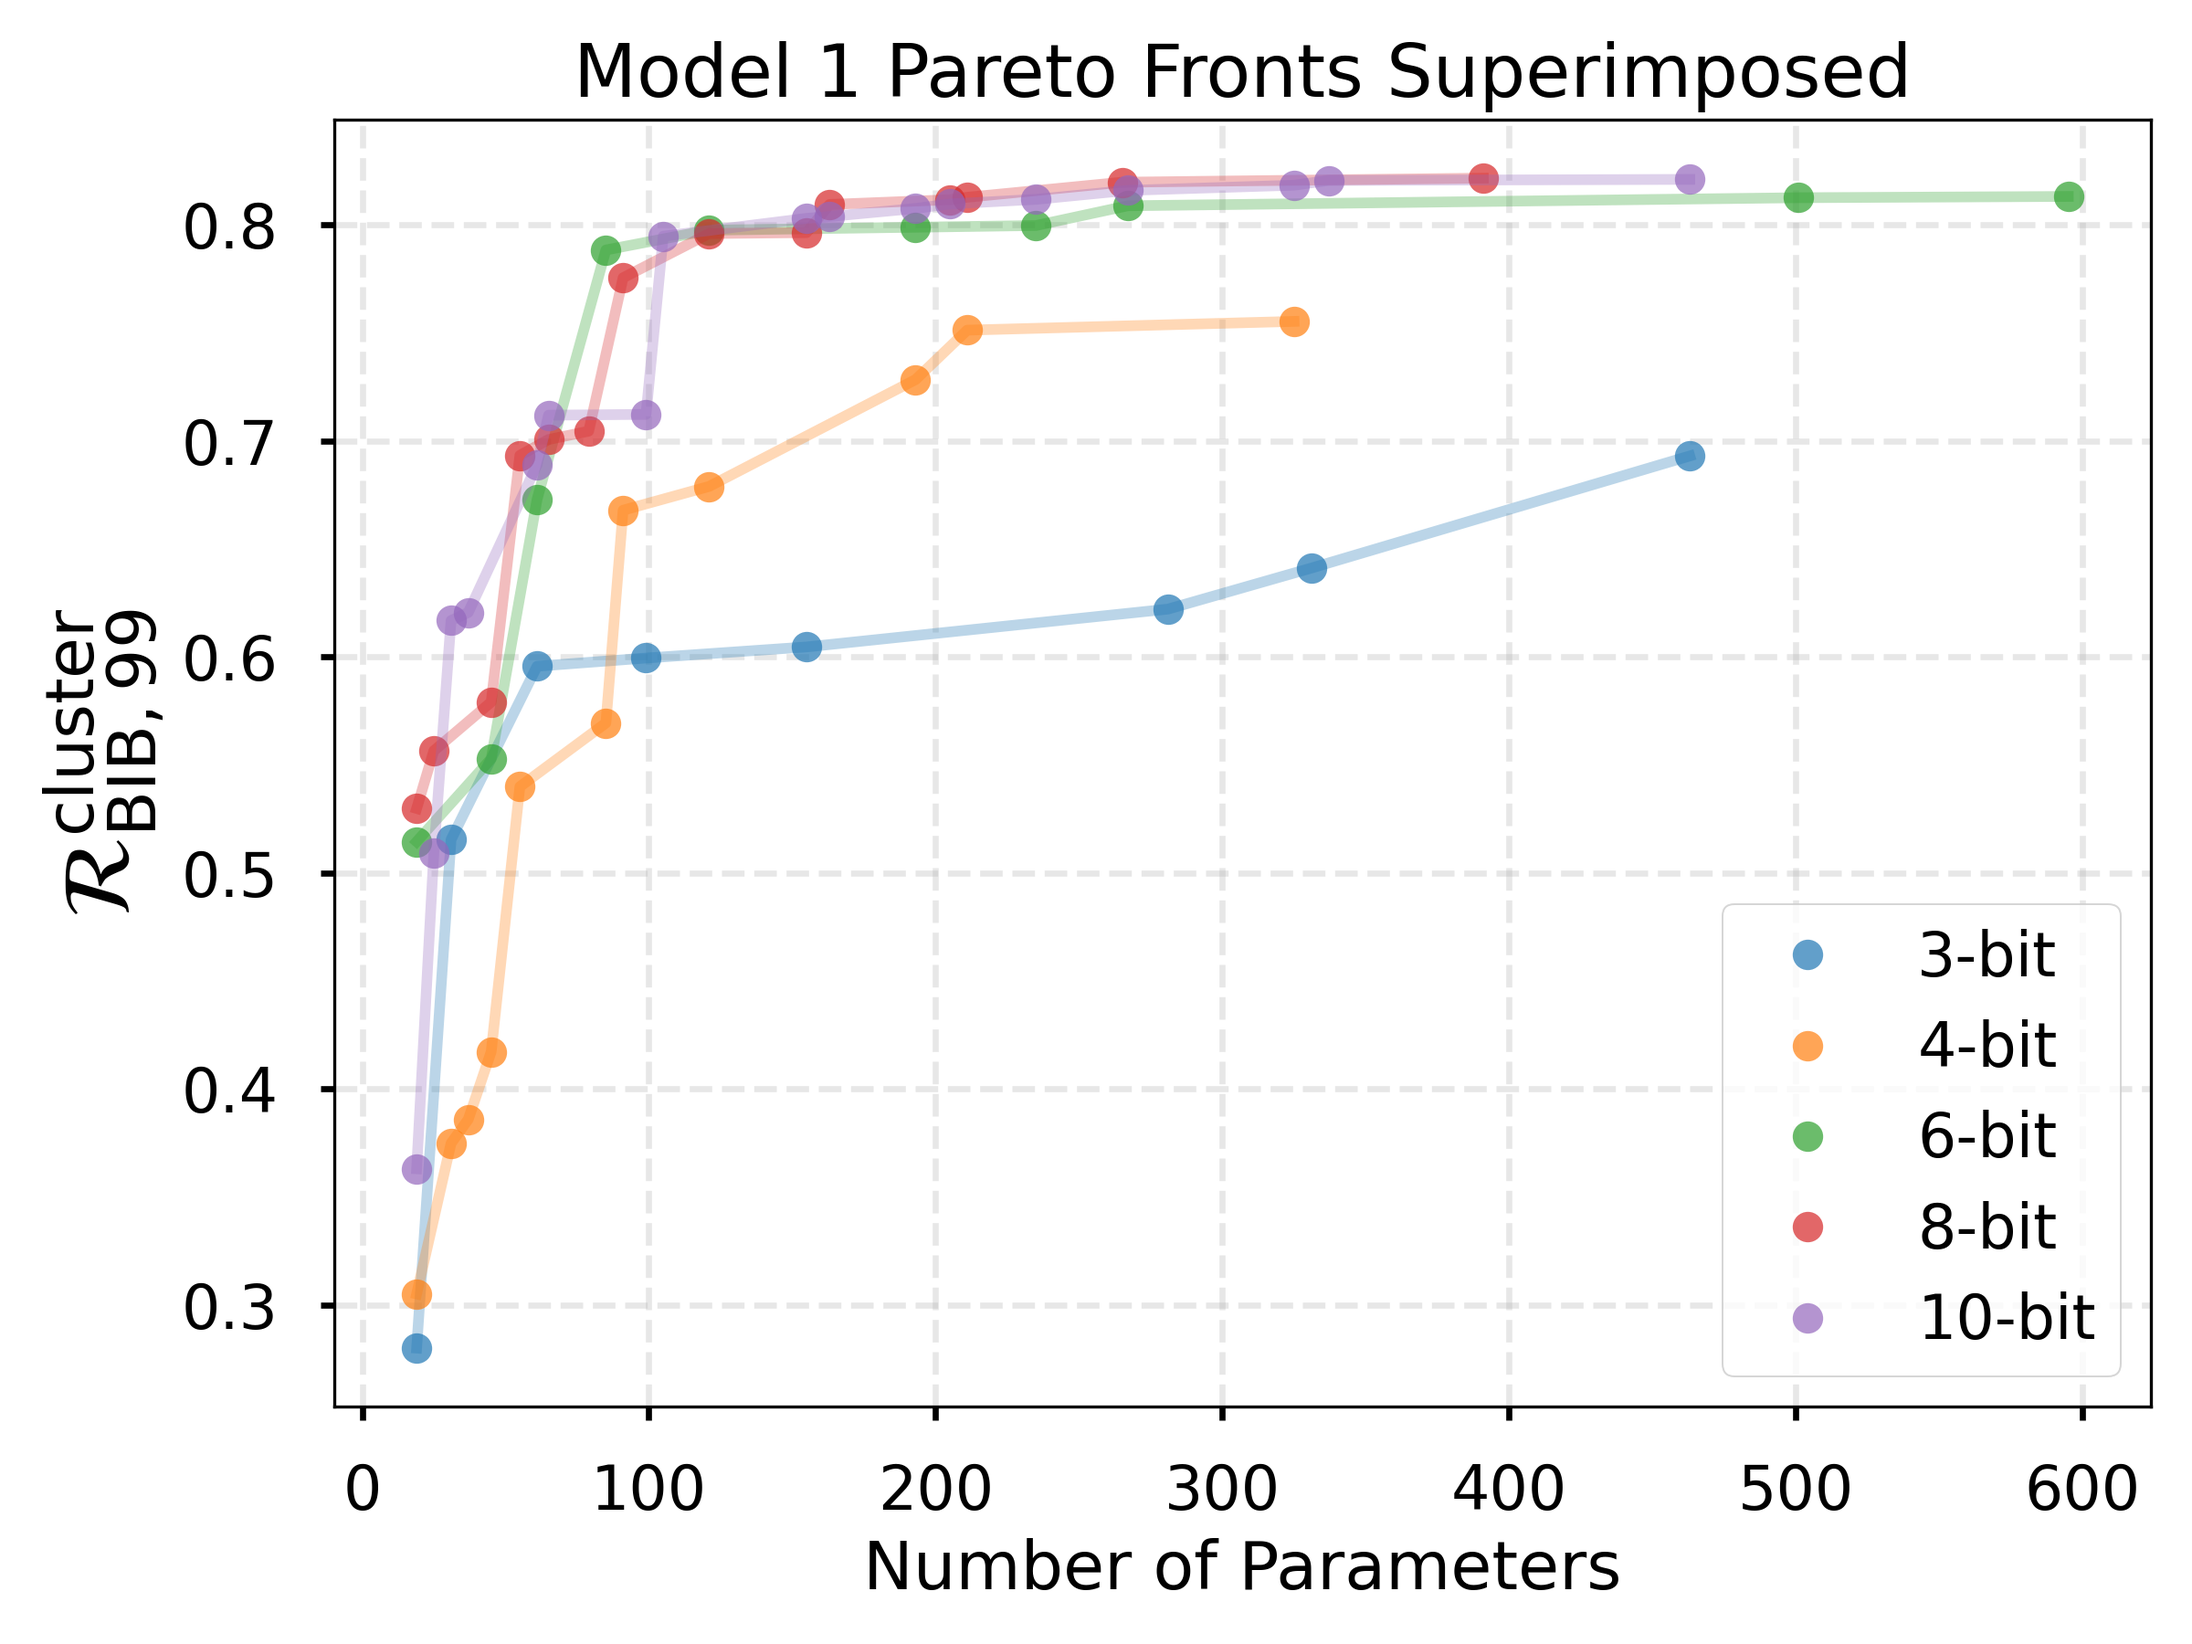
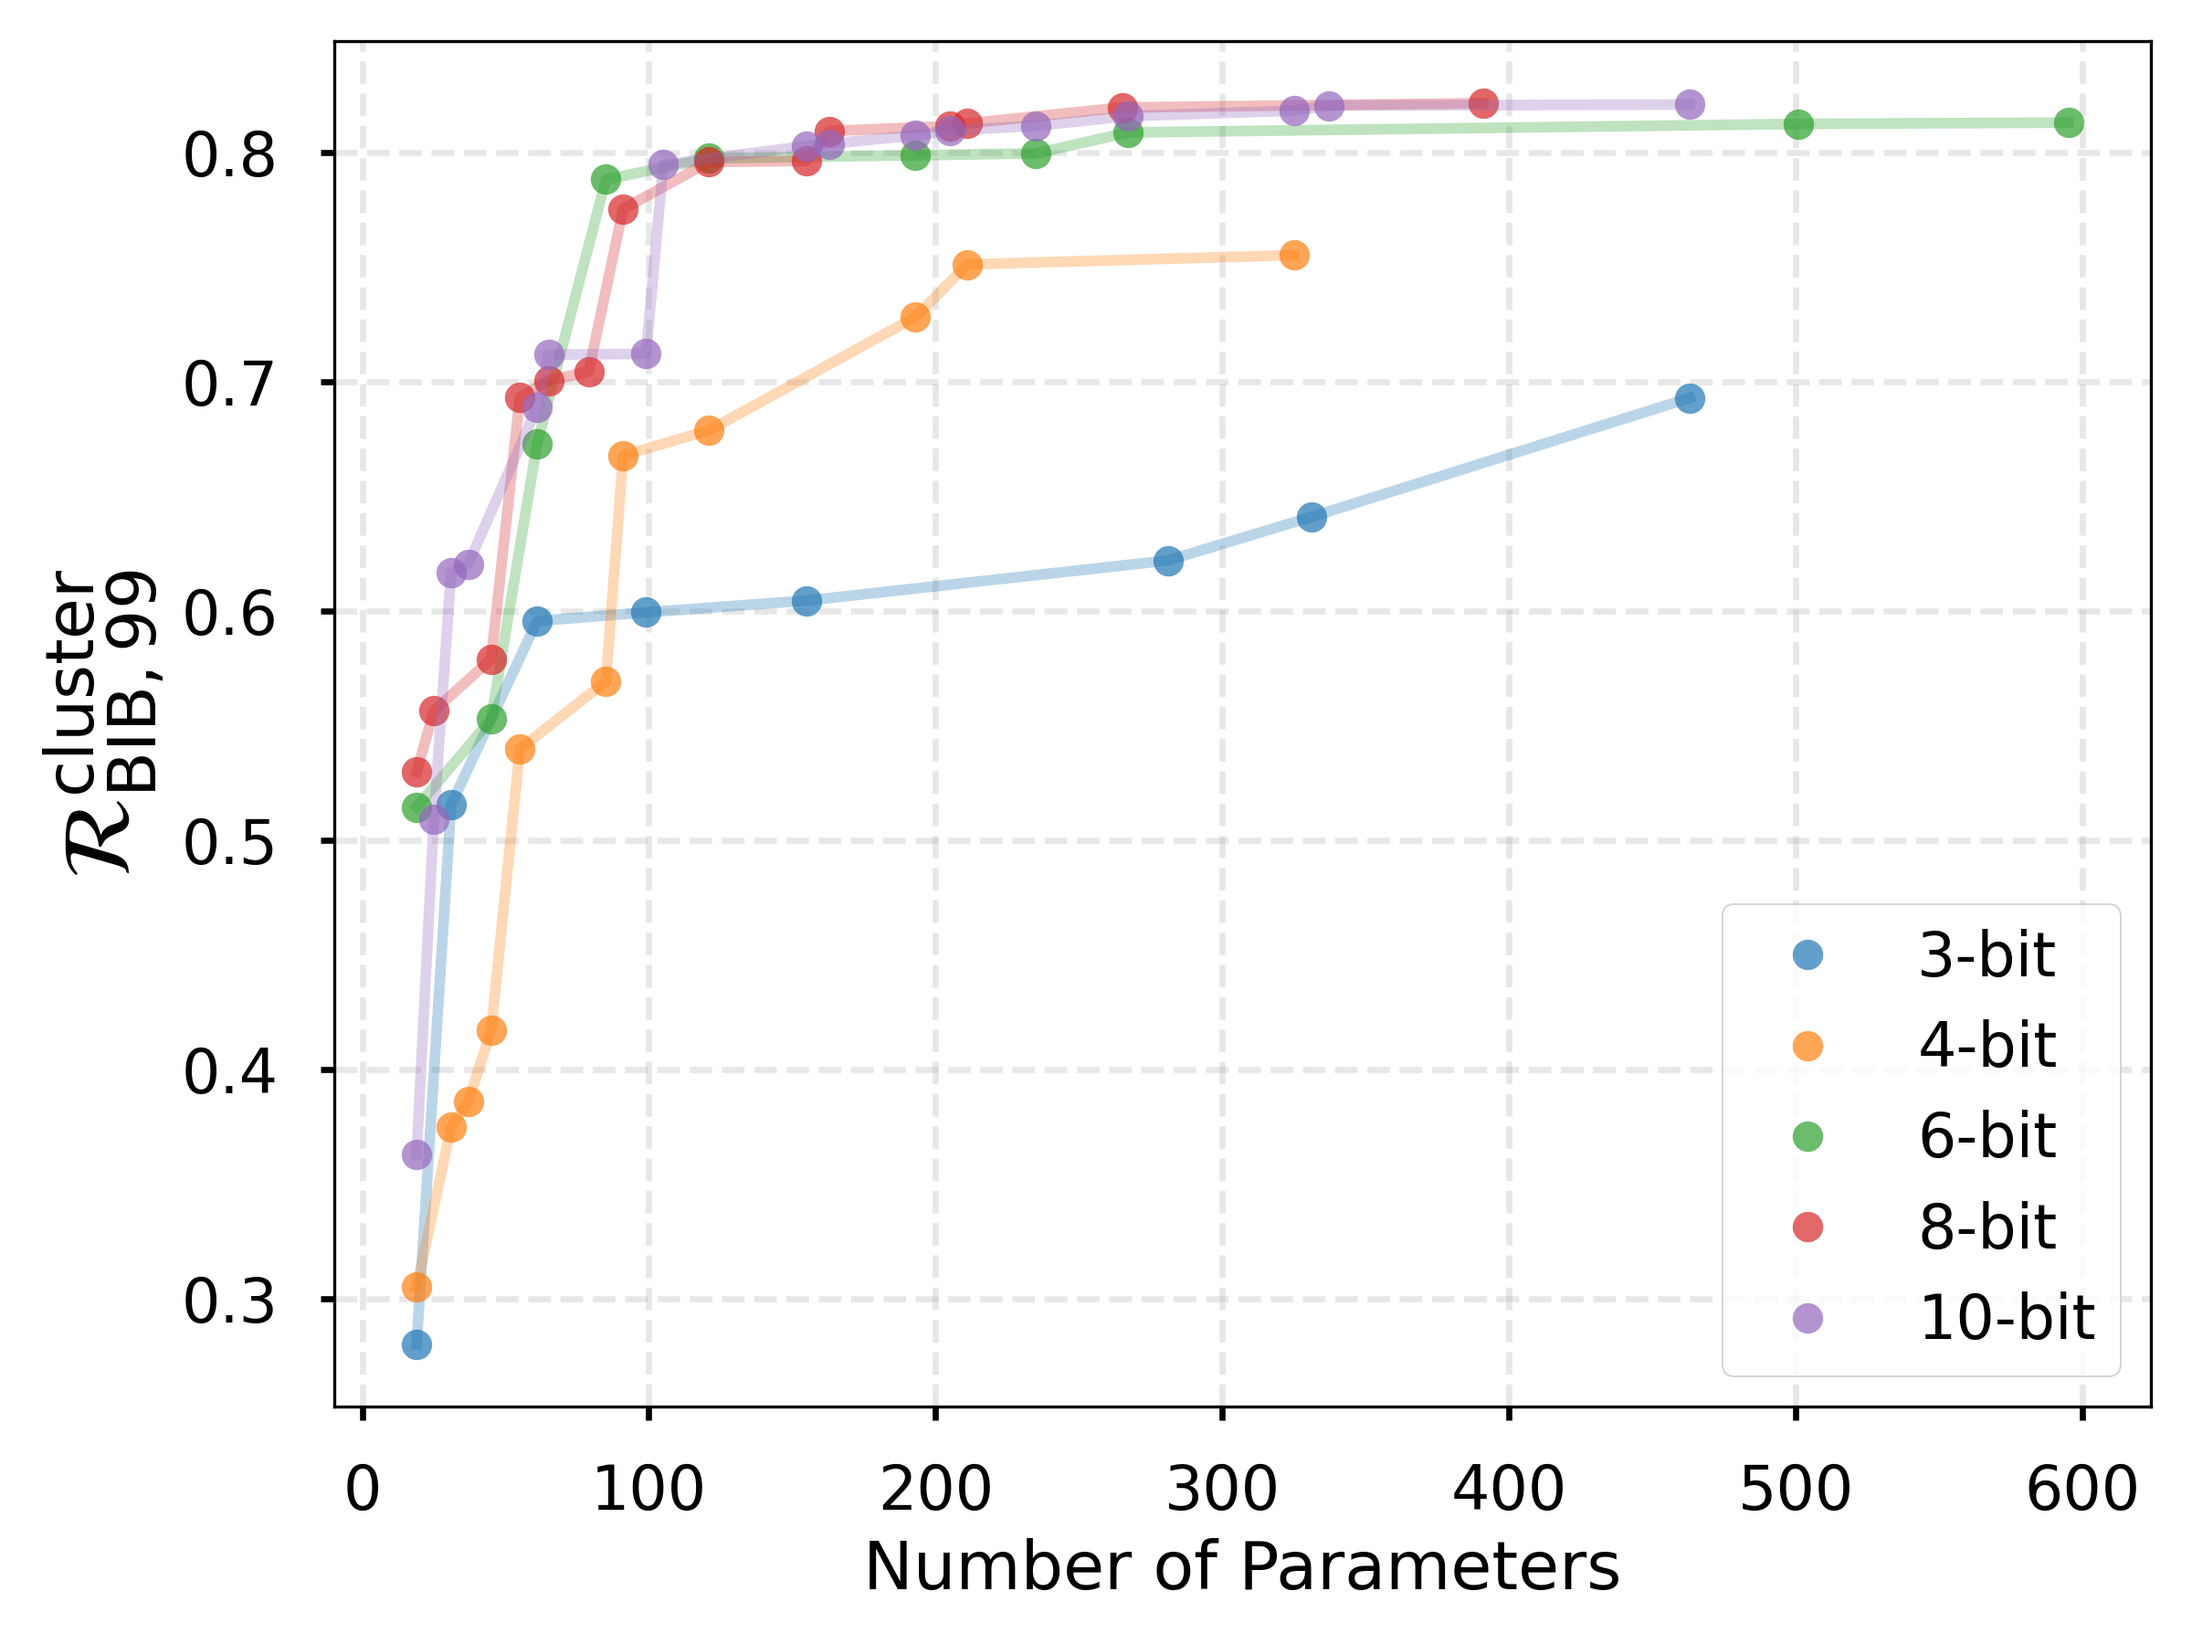
removed titles from figure 7

diff --git a/paperPlots/plot_parameters_vs_resources_multi_bits.py b/paperPlots/plot_parameters_vs_resources_multi_bits.py
@@ -52,10 +52,12 @@ CROSS_PARETO_CSV = Path("/home/dabadjiev/smartpixels_ml_dsabadjiev/Muon_Collider
 # CROSS_PARETO_CSV = Path("/home/dabadjiev/smartpixels_ml_dsabadjiev/Muon_Collider_Smart_Pixels/paperPlots/combined_all_models_pareto_newJune2026/combined_all_detailed_model1vsynth_20ns.csv")
 # HARDWARE_KEY = "luts_plus_ff"
 # HARDWARE_KEY = "luts_plus_0.5*_ff"
-CROSS_PARETO_CSV = Path("/home/dabadjiev/smartpixels_ml_dsabadjiev/Muon_Collider_Smart_Pixels/paperPlots/combined_all_models_pareto_newJune2026/combined_all_detailed_model1And2vsynth_20ns_model3csynth_20ns.csv")
-MODEL_NUM = '25' #'1', '25', or '3'
+# CROSS_PARETO_CSV = Path("/home/dabadjiev/smartpixels_ml_dsabadjiev/Muon_Collider_Smart_Pixels/paperPlots/combined_all_models_pareto_newJune2026/combined_all_detailed_model1And2vsynth_20ns_model3csynth_20ns.csv")
+MODEL_NUM = '1' #'1', '25', or '3'
 FF_COEFFICIENT = 0.5
 RESOURCE_FILTER = 80000 #a number to filter ff+lut below this threshold or None
+RESOURCE_FILTER = None
+showTitle = False
 def infer_bit_width_from_name(name: str) -> str:
     """
     Try to infer the bit-width from a directory name.
@@ -262,15 +264,16 @@ def plot_multi_bit(runs_info, output_path, slopes_csv_path=None,figsize=(8,6),sh
         )
 
     ax.set_xlabel("Number of Parameters")#, fontsize=14, fontweight="bold")
-    ax.set_ylabel(f"Total Hardware Resources (LUTs + {FF_COEFFICIENT} * FFs)")#, fontsize=14, fontweight="bold")
+    ax.set_ylabel(f"FPGA Resources (LUTs + {FF_COEFFICIENT} * FFs)")#, fontsize=14, fontweight="bold")
     extendTitle = f"\n FILTER on y axis by {RESOURCE_FILTER}" if RESOURCE_FILTER else ""
-    ax.set_title(
-        f"Model {MODEL_NUM[0]} Parameters vs Hardware Resources{extendTitle}",#\n"
-        # "Multi-bit Comparison with Linear Regression",
-        # fontsize=16,
-        # fontweight="bold",
-        # pad=20,
-    )
+    if showTitle:
+        ax.set_title(
+            f"Model {MODEL_NUM[0]} Parameters vs Hardware Resources{extendTitle}",#\n"
+            # "Multi-bit Comparison with Linear Regression",
+            # fontsize=16,
+            # fontweight="bold",
+            # pad=20,
+        )
 
     ax.grid(True, alpha=0.3, linestyle="--", zorder=1)
 

diff --git a/paperPlots/combinedParetoModel2.py b/paperPlots/combinedParetoModel2.py
@@ -43,7 +43,7 @@ def plotParetosTogether(allParetoDfs,saveTitle="./Model2ParetosTogether.png",
     plt.xlabel("Number of Parameters")
     # plt.ylabel("Background Rejectiona at 99% Signal Efficiency")
     plt.ylabel(r'$\mathcal{R}_{\mathrm{BIB,99}}^{\mathrm{cluster}}$',fontsize=25)
-    plt.title(f"Model {modelType} Pareto Fronts Superimposed")
+    # plt.title(f"Model {modelType} Pareto Fronts Superimposed")
     plt.tight_layout()
     
     plt.savefig(saveTitle)
